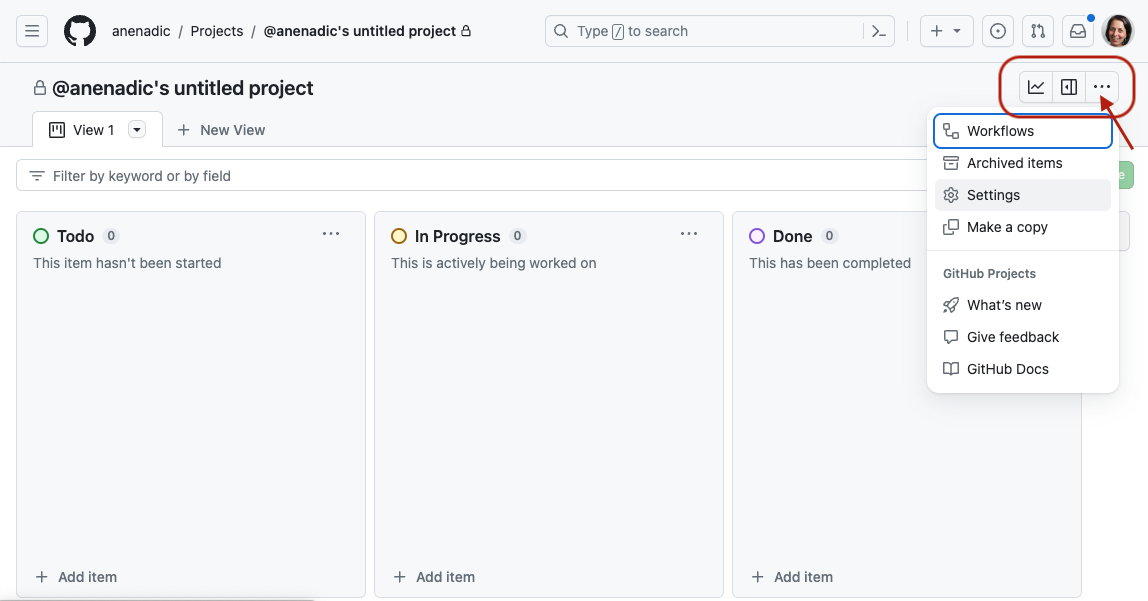
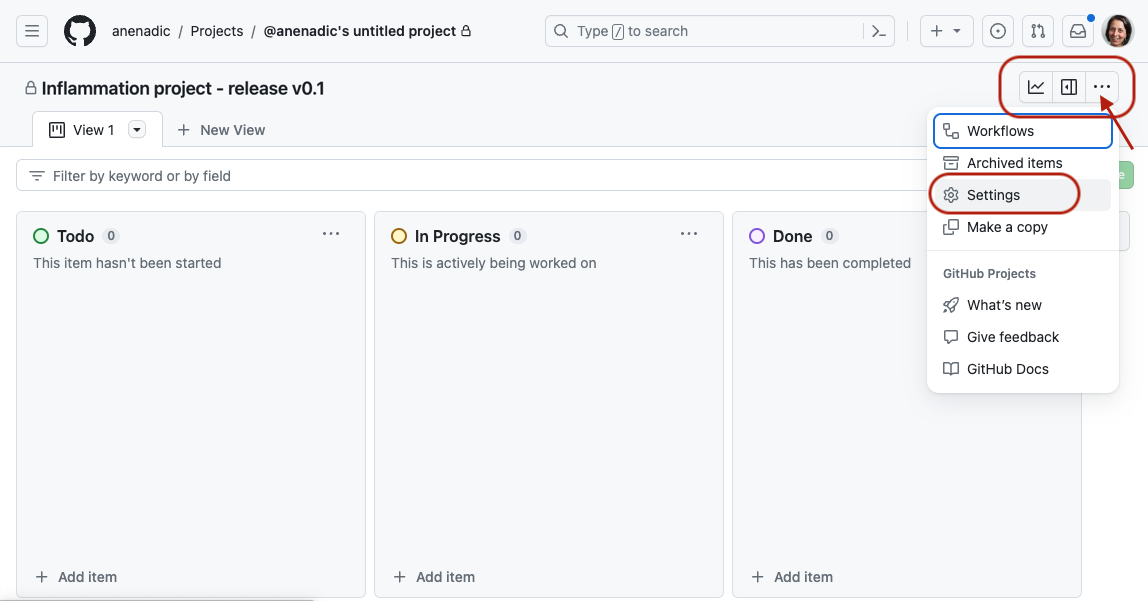
Updated scfreenshots and wording for GH projects

Changed region(s): [[0.0305, 0.1198, 0.2744, 0.1797], [0.7927, 0.2696, 0.9451, 0.3594]]

diff --git a/episodes/51-managing-software.md b/episodes/51-managing-software.md
@@ -269,7 +269,7 @@ representation of tasks and may not be as suitable for higher-level project mana
 prioritising tasks for future development, planning sprints and releases. Luckily,
 GitHub provides two project management tools for this purpose - **Projects** and **Milestones**.
 
-Both Projects and Milestones provide [agile development and project management systems](https://www.atlassian.com/agile)
+Both GitHub Projects and Milestones provide [agile development and project management systems](https://www.atlassian.com/agile)
 and ways of organising issues into smaller "sub-projects" (i.e.
 smaller than the "project" represented by the whole repository).
 Projects provide a way of visualising and organising work which is not time-bound and is on a higher level (e.g. more suitable for
@@ -287,7 +287,7 @@ for now, we will have a brief look at Projects.
 
 ### Projects
 
-A Project uses a "project board" consisting of columns and cards to keep track of tasks
+A GitHub Project uses a "project board" consisting of columns and cards to keep track of tasks
 (although GitHub now also provides a table view over a project's tasks).
 You break down your project into smaller sub-projects,
 which in turn are split into tasks which you write on cards,
@@ -299,7 +299,14 @@ such as issues and pull requests -
 cards can be added to track the progress of such tasks
 and automatically moved between columns based on their progress or status.
 
-> ## Project are a Cross-Repository Management Tool
+GitHub projects are "an adaptable, flexible tool for planning and tracking work on GitHub" -
+they now provide interchangeable spreadsheet, task-board, or roadmap views of your project 
+that integrates with your issues and pull requests on GitHub to help you 
+plan and track your work effectively.
+We recommend you to have a look at [GitHub’s documentation on Projects](https://docs.github.com/en/issues/planning-and-tracking-with-projects/learning-about-projects/about-projects) 
+and see if they are suitable for your software development workflow.
+
+> ## GitHub Project are a Cross-Repository Management Tool
 > [Project in GitHub](https://docs.github.com/en/issues/planning-and-tracking-with-projects/learning-about-projects/about-projects)
 > are created on a user or organisation level,
 > i.e. they can span all repositories owned by a user or organisation in GitHub
@@ -308,32 +315,31 @@ and automatically moved between columns based on their progress or status.
 > to help you plan and track your team's work effectively.
 {: .callout}
 
-Let's create a Project in GitHub to plan the first release of our code.
+Let's have a quick look at how Projects are created in GitHub - we will not use them much in 
+this course but it is good to be aware of make use of them when suitable.
 
 1. From your GitHub account's home page (not your repository's home page!),
    select the "Projects" tab, then click the `New project` button on the right.
 
-    ![Adding a new project board in GitHub](../fig/github-new-project.png){: .image-with-shadow width="1000px"}
+    ![Adding a new project board in GitHub](../fig/github-new-project.png){: .image-with-shadow width="800px"}
 
-2. In the "Select a template" pop-up window, select "Board" -
-   this will give you a classic "cards on a board" view of the project.
-   An alternative is the "Table" view,
-   which presents a spreadsheet-like and slightly more condensed view of a project.
+2. In the "Create project" pop-up window, you can either start from one of the featured existing 
+project templates or create your project from scratch using one of the three standard project 
+types/views that you customise yourself: 
+      - Table - a spreadsheet-style table to filter, sort and group your issues and pull requests. 
+      - Board - a "cards on a board" view of the project, with issues and pull requests being 
+      spread across customizable columns as cards on kanban board
+      - Roadmap - suitable for a high-level visualisation of your project over time. 
+![Selecting a project board template in GitHub](../fig/github-project-template.png){: .image-with-shadow width="800px"}
+  Regardless of which project type/view you select, you can easily switch to a different 
+  project layout later on.
 
-    ![Selecting a project board template in GitHub](../fig/github-board-template.png){: .image-with-shadow width="600px"}
-
-3. GitHub will create an unnamed project board for you.
-   You should populate the name and the description of the project from the project's Settings,
-   which can be found by clicking the `...` button in the top right corner of the board.
-
-   ![Project board setting in GitHub](../fig/github-project-settings.png){: .image-with-shadow width="800px"}
-
-4. We can, for example, use "Inflammation project - release v0.1"
-   and "Tasks for the v0.1 release of the inflammation project"
-   for the name and description of our project, respectively.
-   Or you can use anything that suits your project.
-
-   ![Naming a project in GitHub](../fig/github-name-project.png){: .image-with-shadow width="800px"}
+3. For example, select the "Board" type for the project and fill in the name of your project - 
+e.g. "Inflammation project - release v0.1".
+4. After it is created, you should also populate the description of the project from the project's Settings,
+   which can be found by clicking the `...` button in the top right corner of the project.
+![Project board setting in GitHub](../fig/github-project-settings.png){: .image-with-shadow width="800px"}
+![Adding project description and metadata in GitHub](../fig/github-project-description.png){: .image-with-shadow width="800px"}
 
 5. GitHub's default card board template contains
    the following three columns with pretty self-explanatory names:
@@ -349,6 +355,8 @@ Let's create a Project in GitHub to plan the first release of our code.
     if you have tasks that get held up by waiting on other people
     (e.g. to respond to your questions)
     then moving them to a separate column makes their current state clearer.
+    Another way to organise your table is to have a column for each quarter of the year - 
+    it is up to you to decide how you want to view your project's activities. 
 
     To add a new column,
     press the `+` button on the right;
@@ -375,7 +383,7 @@ Let's create a Project in GitHub to plan the first release of our code.
     or write more detailed comments
     (for that, use the `Convert to issue` option from the `...` menu on the card itself).
 
-   ![Coverting a task to issue](../fig/github-convert-task-to-issue.png){: .image-with-shadow width="800px"}
+   ![Converting a task to issue](../fig/github-convert-task-to-issue.png){: .image-with-shadow width="800px"}
 
 7.  In addition to creating new tasks as notes and converting them to issues -
 you can add an existing issue or pull request (from any repository visible to you)
@@ -386,6 +394,10 @@ and pressing the `Enter` key.
    Issues and pull requests on cards will automatically be moved to the `Done` column for you
    when you close the issue or merge the pull request -
    which is very convenient and can save you some project management time.
+9. Finally, you can change the way you view your project by adding another view. 
+For example, we can add a Table view to our Board view by clicking the `New button`
+and selecting it from the drop down menu.
+![Add another project view](../fig/github-project-add-view.png){: .image-with-shadow width="800px"}
 
 > ## Exercise: Working With Projects
 > Spend a few minutes planning what you want to do with your project as a bigger chunk of work
